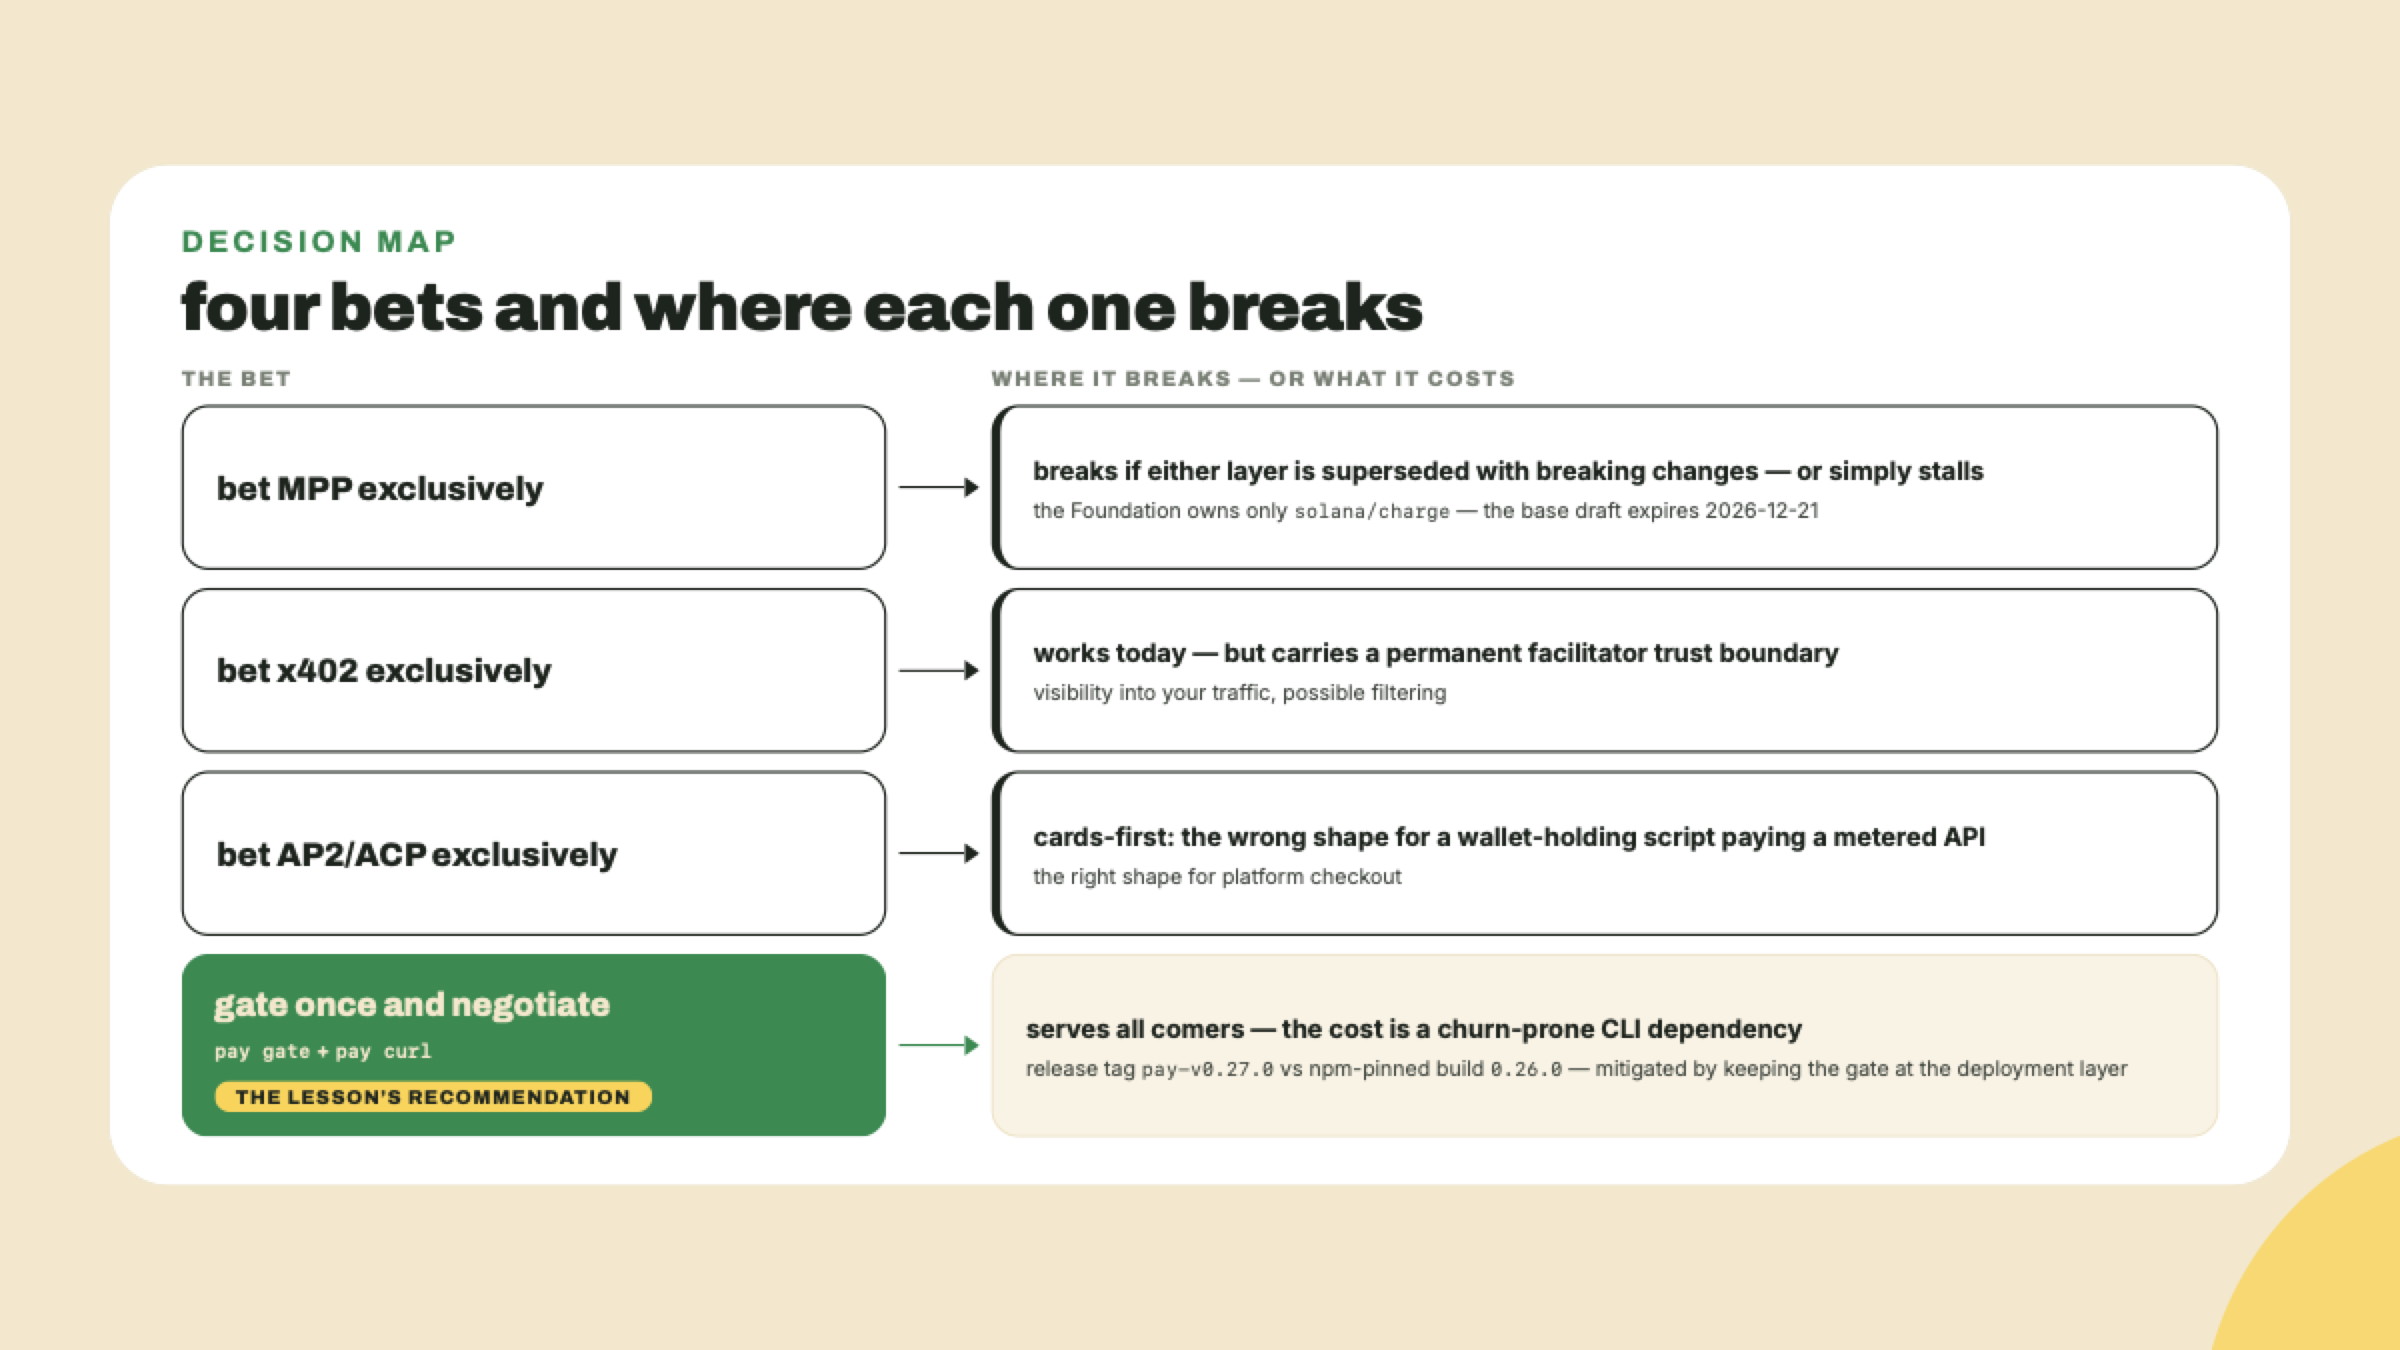
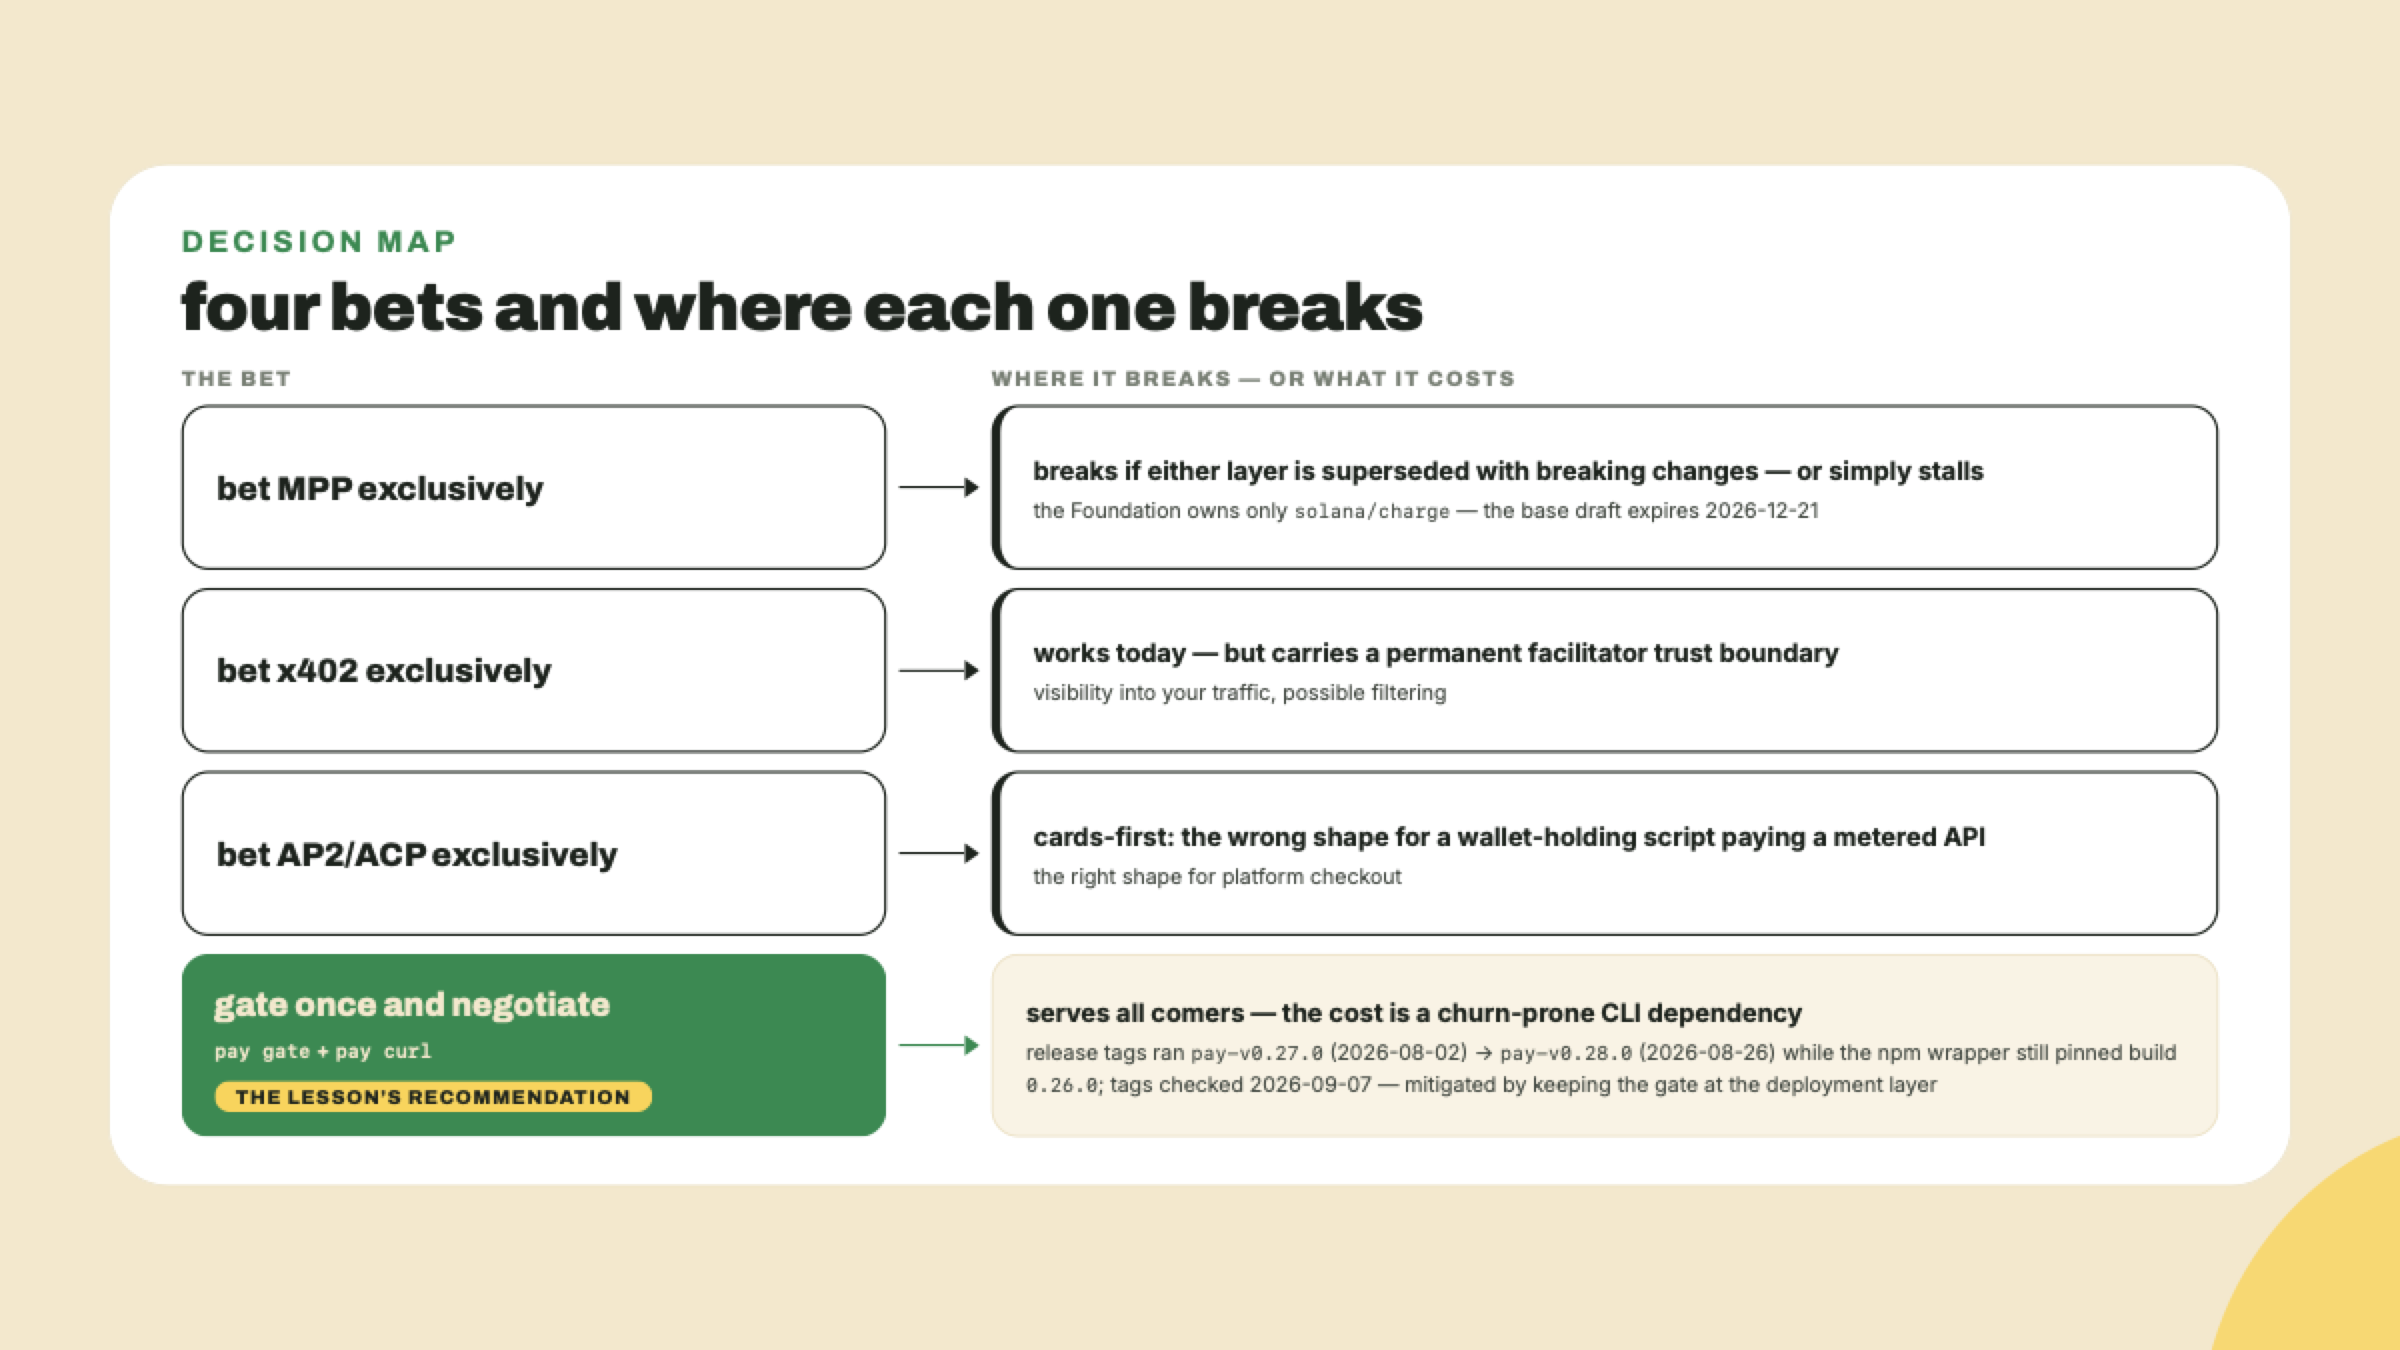
fix(solana-payments-commerce): two figures the prose corrections left behind
Both carried the claim in markup AND spec, so neither was fixed by editing
one surface.

m09-l1 v05, the assembly-footgun table: the fix for kit cross-contamination
read "the crank is its own process with cwd inside the subscriptions
workspace". m09-l1 intro.md:223 exists specifically to retract that model --
"it is not the process boundary, and not the working directory, that
preserves the kit seam at runtime" -- because Node resolves a bare import by
walking up from the importing file's own location, so crank.ts landing
inside subscriptions/ is what buys import isolation; the separate process
buys lifecycle isolation only. The boot.ts comment at :241 says the same.
The cell now leads with the entry file's address and names cwd as the thing
that does not matter. Its PNG had never been re-rendered on this branch, so
this is its first correction in the shipped image.

m07-l3 v05, the fourth option's cost node: "release tag pay-v0.27.0 vs
npm-pinned build 0.26.0", undated, while the prose beside it (intro.md:14)
carries a check date and the news that pay-v0.28.0 followed on 2026-08-26.
An undated "latest" is the exact failure the lesson is about. Now dated and
shown as movement -- 0.27.0 (2026-08-02) then 0.28.0 (2026-08-26) with the
wrapper still pinning build 0.26.0, tags checked 2026-09-07 -- which also
makes the churn-prone-dependency argument better than the static version did.

Changed region(s): [[0.4062, 0.7467, 0.9062, 0.8089]]

diff --git a/courses/solana-payments-commerce/visual-src/m07-l3/v05-diagram.html b/courses/solana-payments-commerce/visual-src/m07-l3/v05-diagram.html
@@ -12,7 +12,7 @@
 <body>
 <!-- diagram: Four bets and where each one breaks
      purpose: give the reader the decision map their challenge memo has to defend
-     data: option: bet MPP exclusively -> breaks if either layer is superseded with breaking changes or stalls; the Foundation owns only the solana/charge method spec, while the base draft-httpauth-payment-00 (Tempo Labs + Stripe) expires 2026-12-21 option: bet x402 exclusively -> works today, carries a permanent facilitator trust boundary (visibility, possible filtering) option: bet AP2/ACP exclusively -> cards-first; wrong shape for a wallet-holding script paying a metered API; right shape for platform checkout option: gate once and negotiate (pay gate + pay curl) -> serves all comers; cost = churn-prone CLI dependency (release tag pay-v0.27.0, npm-pinned build 0.26.0), mitigated by keeping the gate at the deployment layer verdict marker on option 4: the lesson's recommendation
+     data: option: bet MPP exclusively -> breaks if either layer is superseded with breaking changes or stalls; the Foundation owns only the solana/charge method spec, while the base draft-httpauth-payment-00 (Tempo Labs + Stripe) expires 2026-12-21 option: bet x402 exclusively -> works today, carries a permanent facilitator trust boundary (visibility, possible filtering) option: bet AP2/ACP exclusively -> cards-first; wrong shape for a wallet-holding script paying a metered API; right shape for platform checkout option: gate once and negotiate (pay gate + pay curl) -> serves all comers; cost = churn-prone CLI dependency (release tags ran pay-v0.27.0 on 2026-08-02 then pay-v0.28.0 on 2026-08-26 while the npm wrapper still pinned build 0.26.0; tags checked 2026-09-07), mitigated by keeping the gate at the deployment layer verdict marker on option 4: the lesson's recommendation
      prompt: Decision map: four option nodes in a column, each with a short arrow to its failure-or-cost node on the right. Mark the fourth option (gate once and negotiate) with a recommendation badge and show its cost node in a softer emphasis than the three failure nodes. Structure only; house brand styles apply.
      BUILD .viz as on-brand HTML per skills/content-gen/references/visual-rendering.md.
      Header: <div class="stbr-eyebrow">..</div> + <h2 class="viz-title">..</h2>.
@@ -94,7 +94,7 @@
       </div>
       <div style="flex:1; background:var(--surface-paper); border:1px solid var(--border-subtle); border-radius:var(--radius-lg); padding:0 22px; display:flex; flex-direction:column; justify-content:center;">
         <div style="font-family:var(--font-body); font-weight:700; font-size:17px; color:var(--text-primary);">serves all comers &mdash; the cost is a churn-prone CLI dependency</div>
-        <div style="font-family:var(--font-body); font-size:14px; color:var(--text-secondary); margin-top:3px;">release tag <span style="font-family:var(--font-mono); font-size:13px;">pay-v0.27.0</span> vs npm-pinned build <span style="font-family:var(--font-mono); font-size:13px;">0.26.0</span> &mdash; mitigated by keeping the gate at the deployment layer</div>
+        <div style="font-family:var(--font-body); font-size:14px; color:var(--text-secondary); margin-top:3px;">release tags ran <span style="font-family:var(--font-mono); font-size:13px;">pay-v0.27.0</span> (2026-08-02) &rarr; <span style="font-family:var(--font-mono); font-size:13px;">pay-v0.28.0</span> (2026-08-26) while the npm wrapper still pinned build <span style="font-family:var(--font-mono); font-size:13px;">0.26.0</span>; tags checked 2026-09-07 &mdash; mitigated by keeping the gate at the deployment layer</div>
       </div>
     </div>
   </div>

diff --git a/courses/solana-payments-commerce/visual-src/m09-l1/v05-comparison.html b/courses/solana-payments-commerce/visual-src/m09-l1/v05-comparison.html
@@ -12,7 +12,7 @@
 <body>
 <!-- comparison: The four assembly footguns, their symptoms, and the fix
      purpose: let the reader match a failing journey run to its cause before debugging blind
-     data: footgun: kit cross-contamination (a kit-6 workspace imports a kit-7-only subscriptions helper) | symptom: type errors or duplicate-kit runtime weirdness in the server process | fix: the crank is its own process with cwd inside the subscriptions workspace; nothing outside that folder imports from it footgun: loops started without the idempotency guard | symptom: one purchase, two fulfillments on a retried event | fix: worker and crank both claim the signature before acting; the webhook leg triple-delivers on purpose footgun: asserting before the fair queue drained | symptom: webhook leg FAILs with not-found on the queued sale | fix: drain at boot and wait for the queue-empty line before starting the journey footgun: devnet RPC rate limit mid-journey | symptom: a leg FAILs on a read timeout though the transaction landed | fix: wrap verifier reads in bounded retries; a timeout is a retry, a verifier rejection is a failure
+     data: footgun: kit cross-contamination (a kit-6 workspace imports a kit-7-only subscriptions helper) | symptom: type errors or duplicate-kit runtime weirdness in the server process | fix: keep crank.ts inside the subscriptions folder — an entry file resolves bare imports by walking up from its own location, never from cwd, so the separate process buys lifecycle isolation and the file's address buys import isolation; nothing outside that folder imports from it footgun: loops started without the idempotency guard | symptom: one purchase, two fulfillments on a retried event | fix: worker and crank both claim the signature before acting; the webhook leg triple-delivers on purpose footgun: asserting before the fair queue drained | symptom: webhook leg FAILs with not-found on the queued sale | fix: drain at boot and wait for the queue-empty line before starting the journey footgun: devnet RPC rate limit mid-journey | symptom: a leg FAILs on a read timeout though the transaction landed | fix: wrap verifier reads in bounded retries; a timeout is a retry, a verifier rejection is a failure
      prompt: Four-row comparison table with columns footgun, symptom, and fix, populated verbatim from data. Give each row a small icon-free severity accent and keep the fix column visually strongest. Structure only; house brand styles apply.
      BUILD .viz as on-brand HTML per skills/content-gen/references/visual-rendering.md.
      Header: <div class="stbr-eyebrow">..</div> + <h2 class="viz-title">..</h2>.
@@ -50,7 +50,7 @@
     <div class="frow">
       <div class="cell fg">kit cross-contamination &mdash; a kit-6 workspace imports a kit-7-only subscriptions helper</div>
       <div class="cell sy">type errors or duplicate-kit runtime weirdness in the server process</div>
-      <div class="cell fx">the crank is its own process with cwd inside the subscriptions workspace; nothing outside that folder imports from it</div>
+      <div class="cell fx">keep <span style="font-family:var(--font-mono);font-size:0.92em;">crank.ts</span> inside the subscriptions folder &mdash; an entry file resolves imports from its own location, not from cwd; nothing outside that folder imports from it</div>
     </div>
     <div class="frow">
       <div class="cell fg">loops started without the idempotency guard</div>
